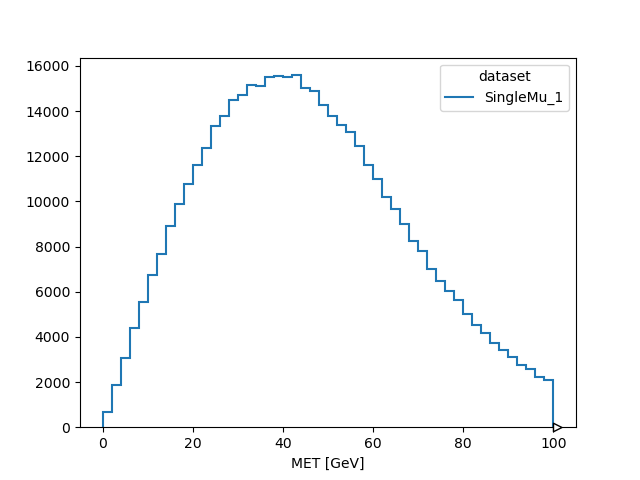
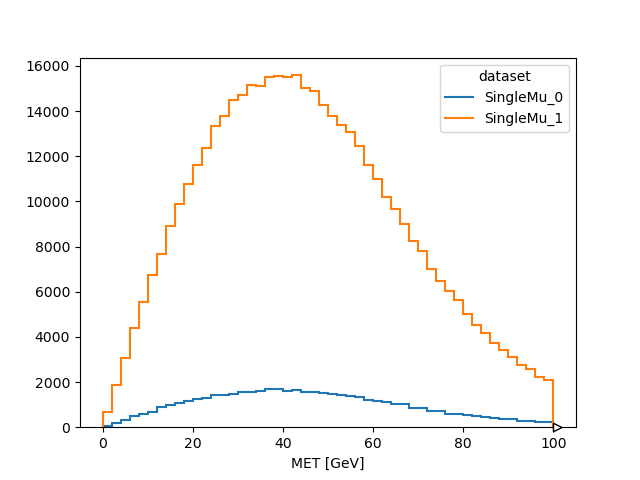
CustomArtifact added

diff --git a/src/workflow/artifacts.py b/src/workflow/artifacts.py
@@ -130,22 +130,6 @@ class ChunkAnalysis(ArtifactBase):
             "builder_params": dict(self.builder_params),
         }
 
-# most probably is not needed
-# @register_artifact
-# class Merging(ArtifactBase):
-#     """
-#     User doesn't use this artifact, it's a helping artifact that is produced by Analysis artifact to merge succesfully processed chunks.
-#     ?????????????????
-#     """
-#     analysis_chunks: str[Path] # path to the folder with chunks to merge
-#     parameter: str # how to merge? what to merge?
-
-#     def keys(self):
-#         return {
-#             "analysis_chunks": self.analysis_chunks,
-#             "parameter": self.parameter,
-#         }
-
 @register_artifact
 @dataclass(frozen=True)
 class Analysis(ArtifactBase):
@@ -194,3 +178,29 @@ class Plotting(ArtifactBase):
             "builder": _builder_key(self.builder),
             "builder_params": dict(self.builder_params),
         }
+
+@register_artifact
+@dataclass(frozen=True)
+class CustomArtifact(ArtifactBase):
+    name: str
+    builder: str | Callable
+    builder_params: tuple = ()
+    upstreams: tuple = ()
+    identity_keys: tuple = ()
+
+    def __post_init__(self):
+        object.__setattr__(self, 'builder_params', _to_params_tuple(self.builder_params))
+        object.__setattr__(self, 'upstreams', tuple(self.upstreams))
+        object.__setattr__(self, 'identity_keys', tuple(self.identity_keys))
+
+    def _all_keys(self):
+        return {
+            "name": self.name,
+            "builder": _builder_key(self.builder),
+            "builder_params": dict(self.builder_params),
+            "upstreams": list(self.upstreams),
+        }
+
+    def keys(self):
+        all_keys = self._all_keys()
+        return all_keys

diff --git a/src/workflow/default_producers.py b/src/workflow/default_producers.py
@@ -3,12 +3,12 @@ import json
 from pathlib import Path
 from typing import Any
 import cloudpickle
-from .artifacts import Fileset, Analysis, Chunking, ChunkAnalysis, Plotting, _builder_key
+from .artifacts import Fileset, Analysis, Chunking, ChunkAnalysis, Plotting, CustomArtifact, _builder_key
 from .deps import Deps
 from .producers import producer
 from .config import RunConfig
 from coffea.processor import accumulate
-from .producers_utils import _call_builder, _extract_acc, _load_object, _split_fileset
+from .producers_utils import _call_builder, _extract_acc, _load_object, _split_fileset, _load_artifact_output
 
 @producer(Fileset)
 def make_fileset(*, art: Fileset, deps: Deps, out: Path, config: RunConfig) -> None:
@@ -156,3 +156,18 @@ def make_plot(*, art: Plotting, deps: Deps, out: Path, config: RunConfig) -> Non
     else:
         plot_result = _call_builder(fn, payload, builder_params=dict(art.builder_params))
     (out / "payload.pkl").write_bytes(cloudpickle.dumps(plot_result))
+
+
+@producer(CustomArtifact)
+def run_custom(*, art: CustomArtifact, deps: Deps, out: Path, config: RunConfig) -> None:
+    out.mkdir(parents=True, exist_ok=True)
+
+    upstream_results = []
+    for upstream_art in art.upstreams:
+        upstream_path = deps.need(upstream_art)
+        upstream_results.append(_load_artifact_output(upstream_art, upstream_path))
+
+    fn = _load_object(art.builder)
+    result = _call_builder(fn, upstream_results, out=out, config=config,
+                           builder_params=dict(art.builder_params))
+    (out / "payload.pkl").write_bytes(cloudpickle.dumps(result))

diff --git a/src/workflow/producers_utils.py b/src/workflow/producers_utils.py
@@ -3,9 +3,10 @@ from .config import RunConfig
 import importlib
 import math
 from typing import Any
+from path import Path
 
 
-def _call_builder(fn, *args, config: RunConfig | None = None, builder_params: dict | None = None) -> Any:
+def _call_builder(fn, *args, config=None, out=None, builder_params=None):
     """
     Call fn(*args), injecting config as a kwarg if the function accepts it.
     For example, user uses client histserv in analysis function.
@@ -14,6 +15,8 @@ def _call_builder(fn, *args, config: RunConfig | None = None, builder_params: di
     sig = inspect.signature(fn).parameters
     if config is not None and "config" in sig:
         kwargs["config"] = config
+    if out is not None and "out" in sig:
+        kwargs["out"] = out
     if builder_params:
         for k, v in builder_params.items():
             if k in sig:
@@ -21,6 +24,19 @@ def _call_builder(fn, *args, config: RunConfig | None = None, builder_params: di
         print(f"\nkwargs: {kwargs}")
     return fn(*args, **kwargs)
 
+def _load_artifact_output(art, path: Path):
+    """
+    Load the payload of any materialized artifact generically.
+    """
+    if art.type_name == "Fileset":
+        import json
+        return json.loads((path / "fileset.json").read_text())
+    payload_path = path / "payload.pkl"
+    if payload_path.exists():
+        import cloudpickle
+        return cloudpickle.loads(payload_path.read_bytes())
+    return None
+    
 def _extract_acc(result) -> Any:
     """
     Depending on the processor implementation, the user can return the accumulator or something else.

diff --git a/src/workflow/render.py b/src/workflow/render.py
@@ -3,7 +3,7 @@ import typing
 import cloudpickle
 from .config import RunConfig
 from .workflow import Workflow
-from .artifacts import ArtifactBase, Fileset, Analysis, Plotting
+from .artifacts import ArtifactBase, Fileset, Analysis, Plotting, CustomArtifact
 from pathlib import Path
 from .executor import Executor
 
@@ -29,7 +29,7 @@ def _topo_order(num_steps, edges):
         raise ValueError("Workflow has a cycle or disconnected dependency graph")
     return order
 
-
+            
 def _build_artifact(step_type, name, builder, builder_params, upstream):
     """
     As I wanted user to only have to define name and builder(from the Step values), 
@@ -53,6 +53,9 @@ def _build_artifact(step_type, name, builder, builder_params, upstream):
     for field_name, field_type in hints.items():
         if field_name in ("name", "builder", "builder_params"):
             continue
+        if field_name == "upstreams":          # injecting all upstream artifacts if it's a custom artifact
+            kwargs["upstreams"] = tuple(upstream)
+            continue 
         if isinstance(field_type, type) and issubclass(field_type, ArtifactBase):
             match = next((a for a in upstream if isinstance(a, field_type)), None)
             if match is None:
@@ -70,6 +73,9 @@ def _load_step_result(step_type, path: Path):
     if step_type is Analysis:
         return cloudpickle.loads((path / "payload.pkl").read_bytes())
     if step_type is Plotting:
+        payload_path = path / "payload.pkl"
+        return cloudpickle.loads(payload_path.read_bytes()) if payload_path.exists() else None
+    if step_type is CustomArtifact:
         payload_path = path / "payload.pkl"
         return cloudpickle.loads(payload_path.read_bytes()) if payload_path.exists() else None
     return None

diff --git a/src/workflow/executor.py b/src/workflow/executor.py
@@ -51,6 +51,7 @@ class Executor:
         "ChunkAnalysis": ".success",
         "Analysis": "payload.pkl",
         "Plotting": "payload.pkl",
+        "CustomArtifact": "payload.pkl", 
     }
 
     def exists(self, art: Artifact) -> bool: